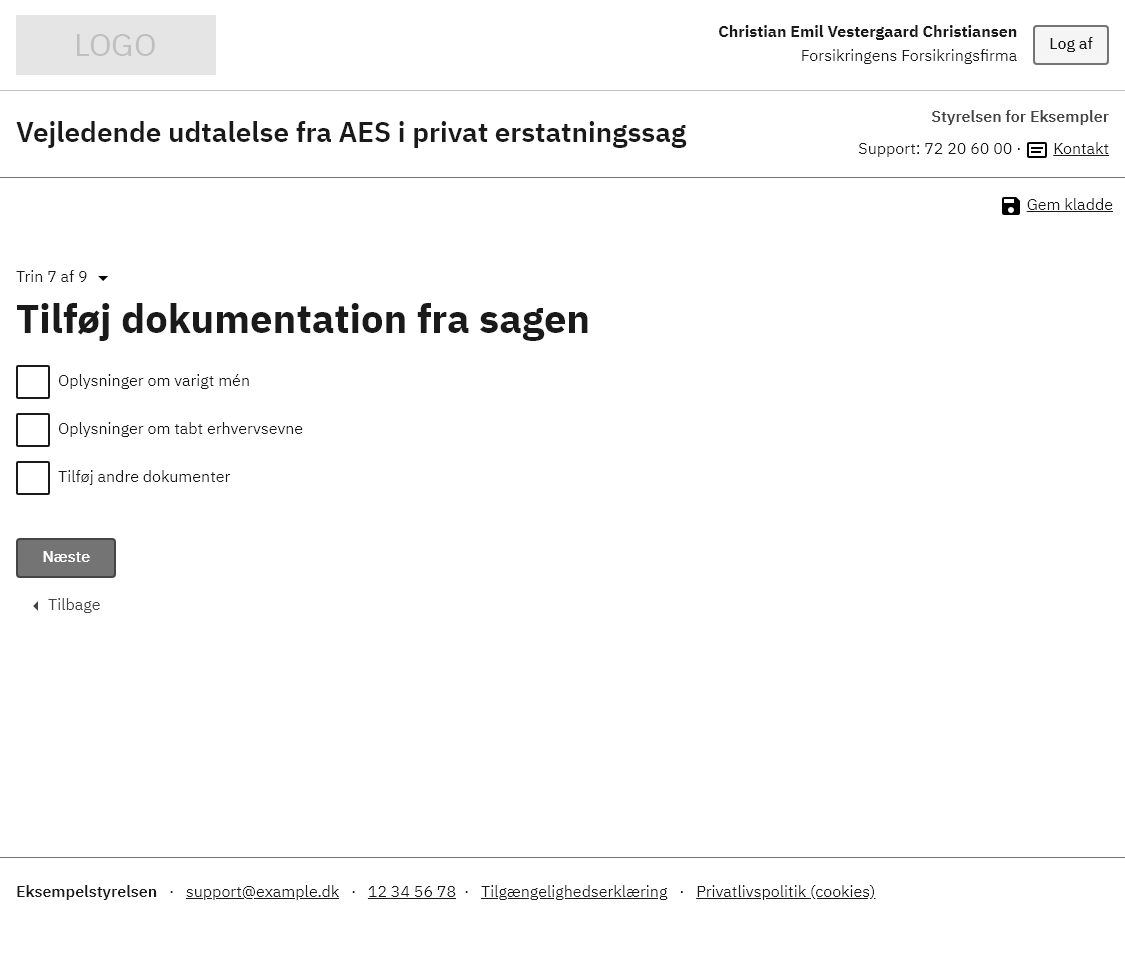
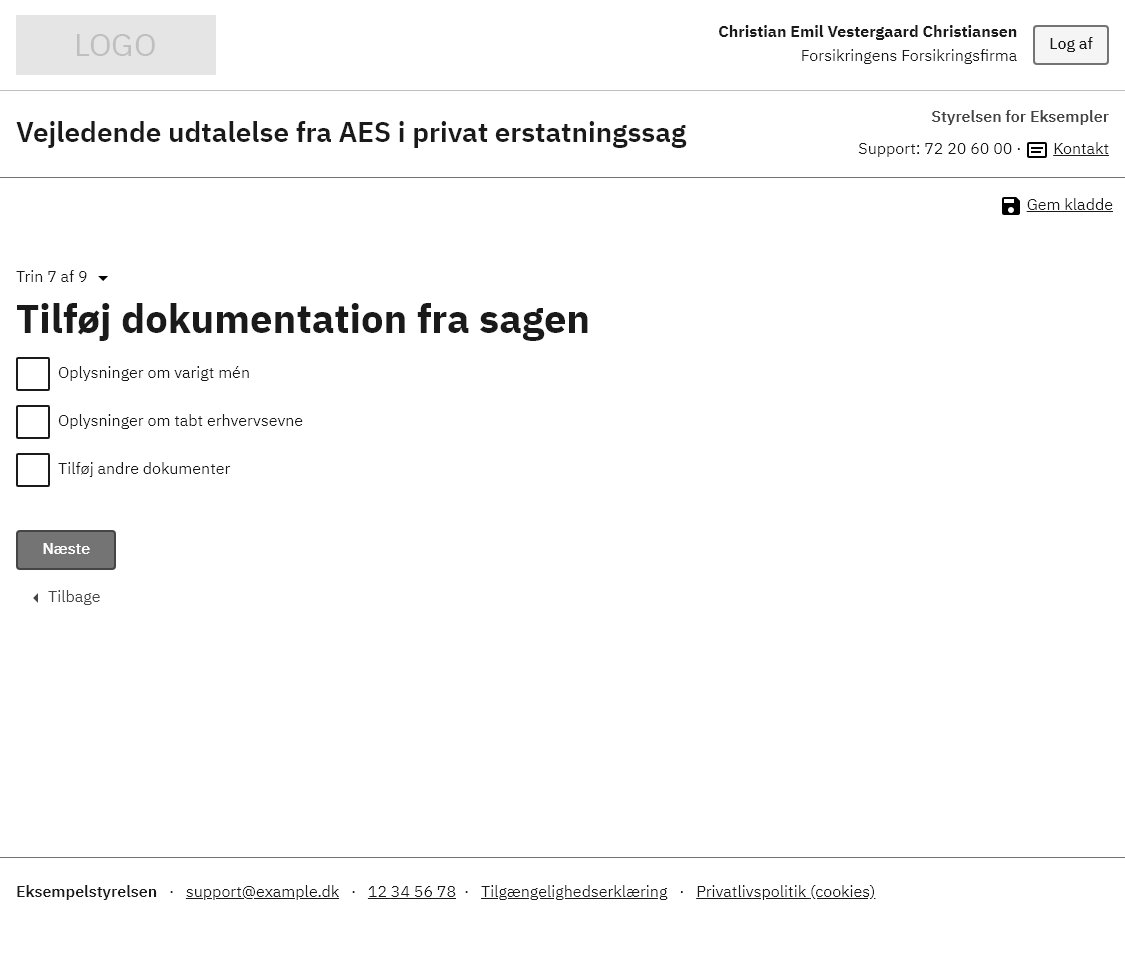
Updated h1 margins in examples

Changed region(s): [[0.0, 0.3746, 0.28, 0.4995], [0.0, 0.5307, 0.1244, 0.6556]]

diff --git a/_includes/code/components/example-aes-page-10.html b/_includes/code/components/example-aes-page-10.html
@@ -95,7 +95,7 @@
 
     <div class="row">
         <div class="col-12">
-            <h1 class="mb-0 mt-5">Kvittering</h1>
+            <h1 class="mt-5">Kvittering</h1>
             <p class="form-hint mt-2">Referencenummer: 28346863</p>
             <p class="mb-4">Hvis du ønsker dokumentation på fremsendelse
                 kan du downloade anmodningen.</p>

diff --git a/_includes/code/components/example-aes-page-7.html b/_includes/code/components/example-aes-page-7.html
@@ -172,7 +172,7 @@
     <div class="form-group mt-0">
         <fieldset>
             <legend>
-                <h1 class="mt-0">Tilføj dokumentation fra sagen</h1>
+                <h1>Tilføj dokumentation fra sagen</h1>
             </legend>
             <ul class="nobullet-list">
                 <li>

diff --git a/_includes/code/components/example-boernetilskud-ansoegning-2.html b/_includes/code/components/example-boernetilskud-ansoegning-2.html
@@ -198,7 +198,7 @@
     </div>
 
     <section class="page-content">
-        <h1 class="mt-0">Hvornår blev du eller bliver du enlig?</h1>
+        <h1>Hvornår blev du eller bliver du enlig?</h1>
 
         <div class="alert alert-info alert--paragraph" role="alert"
             aria-label="Adresse info">

diff --git a/_includes/code/components/example-aes-page-8.html b/_includes/code/components/example-aes-page-8.html
@@ -177,7 +177,7 @@
     <div class="form-group mt-0">
         <fieldset>
             <legend>
-                <h1 class="mt-0">Tilføj kommentarer til sagen</h1>
+                <h1>Tilføj kommentarer til sagen</h1>
             </legend>
             <ul class="nobullet-list">
                 <li>

diff --git a/_includes/code/components/example-boernetilskud-oversigt-2.html b/_includes/code/components/example-boernetilskud-oversigt-2.html
@@ -145,7 +145,7 @@
 
 <main class="container page-container">
     <header class="page-header">
-        <h1>Oversigt</h1>
+        <h1 class="mt-6 mt-md-7">Oversigt</h1>
         <p class="font-lead">Brug en af de følgende funktioner, til at
             administrere børnetilskud:</p>
     </header>

diff --git a/_includes/code/components/example-boernetilskud-oversigt.html b/_includes/code/components/example-boernetilskud-oversigt.html
@@ -145,7 +145,7 @@
 
 <main class="container page-container">
     <header class="page-header">
-        <h1>Oversigt</h1>
+        <h1 class="mt-6 mt-md-7">Oversigt</h1>
         <p class="font-lead">Brug en af de følgende funktioner, til at
             administrere børnetilskud:</p>
     </header>

diff --git a/_includes/code/components/example-boernetilskud-ansoegning-1.html b/_includes/code/components/example-boernetilskud-ansoegning-1.html
@@ -195,7 +195,7 @@
             </div>
         </div>
 
-        <h1 class="mt-0">Hvilke børn søger du tilskud til?</h1>
+        <h1>Hvilke børn søger du tilskud til?</h1>
     </header>
     <section class="page-content">
         <div class="row">

diff --git a/example-dumps.js b/example-dumps.js
@@ -1,6 +1,6 @@
 const puppeteer = require('puppeteer');
 
-var root = "https://dkfdsdevelop.github.io/dkfds-docs/";
+var root = "http://127.0.0.1:4000/";
 var targetRootDir = "img/examples_pages/";
 
 var exampleUrls = [

diff --git a/_includes/code/components-preview/example-aes-page-10.md b/_includes/code/components-preview/example-aes-page-10.md
@@ -100,7 +100,7 @@ title: Example-aes-page-10.html
 
     <div class="row">
         <div class="col-12">
-            <h1 class="mb-0 mt-5">Kvittering</h1>
+            <h1 class="mt-5">Kvittering</h1>
             <p class="form-hint mt-2">Referencenummer: 28346863</p>
             <p class="mb-4">Hvis du ønsker dokumentation på fremsendelse
                 kan du downloade anmodningen.</p>

diff --git a/_includes/code/components-preview/example-boernetilskud-ansoegning-2.md b/_includes/code/components-preview/example-boernetilskud-ansoegning-2.md
@@ -203,7 +203,7 @@ title: Example-boernetilskud-ansoegning-2.html
     </div>
 
     <section class="page-content">
-        <h1 class="mt-0">Hvornår blev du eller bliver du enlig?</h1>
+        <h1>Hvornår blev du eller bliver du enlig?</h1>
 
         <div class="alert alert-info alert--paragraph" role="alert"
             aria-label="Adresse info">

diff --git a/_includes/code/components-preview/example-boernetilskud-oversigt-2.md b/_includes/code/components-preview/example-boernetilskud-oversigt-2.md
@@ -150,7 +150,7 @@ title: Example-boernetilskud-oversigt-2.html
 
 <main class="container page-container">
     <header class="page-header">
-        <h1>Oversigt</h1>
+        <h1 class="mt-6 mt-md-7">Oversigt</h1>
         <p class="font-lead">Brug en af de følgende funktioner, til at
             administrere børnetilskud:</p>
     </header>

diff --git a/_includes/code/components-preview/example-boernetilskud-oversigt.md b/_includes/code/components-preview/example-boernetilskud-oversigt.md
@@ -150,7 +150,7 @@ title: Example-boernetilskud-oversigt.html
 
 <main class="container page-container">
     <header class="page-header">
-        <h1>Oversigt</h1>
+        <h1 class="mt-6 mt-md-7">Oversigt</h1>
         <p class="font-lead">Brug en af de følgende funktioner, til at
             administrere børnetilskud:</p>
     </header>
